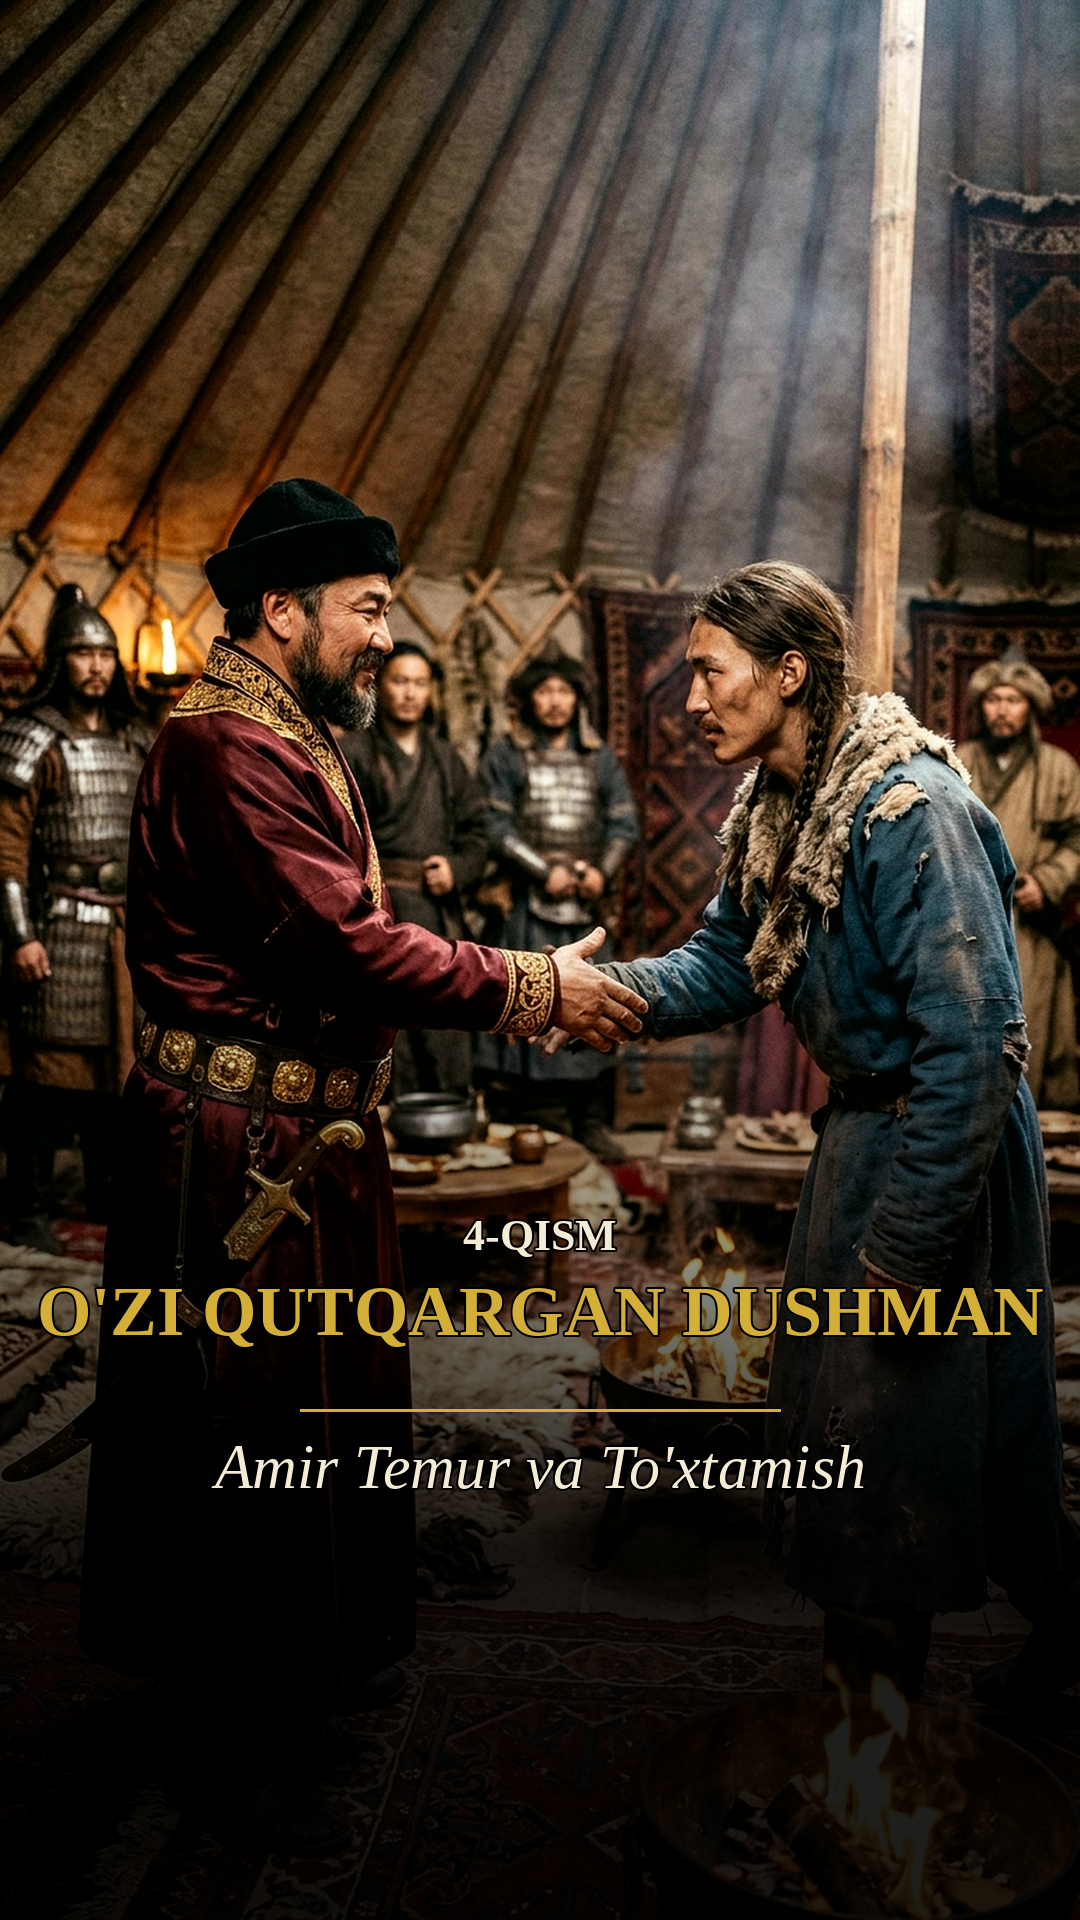
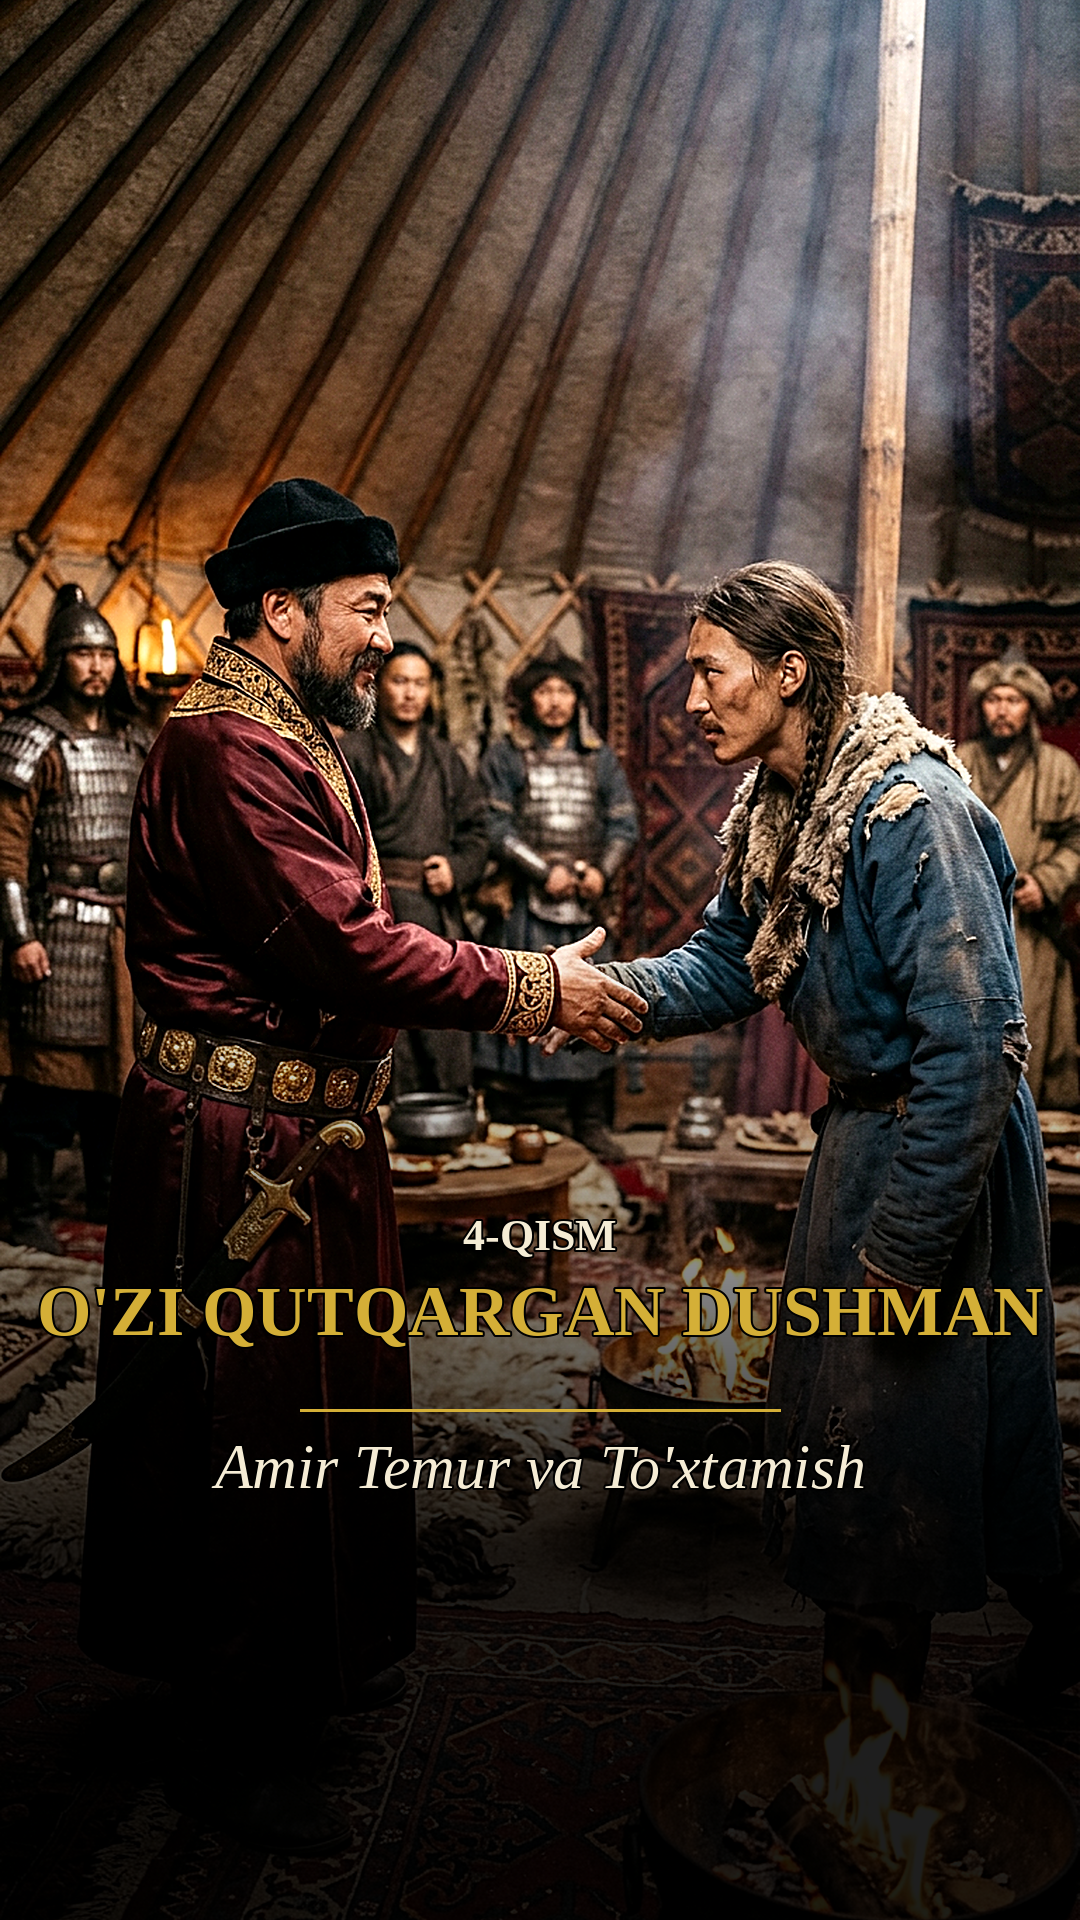
4-qism cover: tiniqroq
Claude-Session: https://claude.ai/code/session_01TTDtXFd2uAAAkhXNRqet7i

diff --git a/video/edit/insta_cover_p4.py b/video/edit/insta_cover_p4.py
@@ -5,11 +5,14 @@ root = pathlib.Path(__file__).resolve().parent.parent
 B = '/usr/share/fonts/truetype/liberation/LiberationSerif-Bold.ttf'
 I = '/usr/share/fonts/truetype/liberation/LiberationSerif-Italic.ttf'
 GOLD = (212, 175, 55); CREAM = (245, 236, 213)
-base = Image.open(root / 'public/p4g/warm/l05.jpg').convert('RGB')
+base = Image.open(root / 'public/p4img/l05.jpg').convert('RGB')
 sc = max(1080 / base.width, 1920 / base.height)
 base = base.resize((round(base.width * sc), round(base.height * sc)), Image.LANCZOS)
 l, t = (base.width - 1080) // 2, (base.height - 1920) // 2
 base = base.crop((l, t, l + 1080, t + 1920))
+from PIL import ImageFilter, ImageEnhance
+base = base.filter(ImageFilter.UnsharpMask(radius=2.2, percent=90, threshold=2))
+base = ImageEnhance.Contrast(base).enhance(1.06)
 ov = Image.new('RGBA', (1080, 1920), (0, 0, 0, 0)); od = ImageDraw.Draw(ov)
 for y in range(950, 1920):
     od.line((0, y, 1080, y), fill=(0, 0, 0, int(225 * min(1, (y - 950) / 600))))
